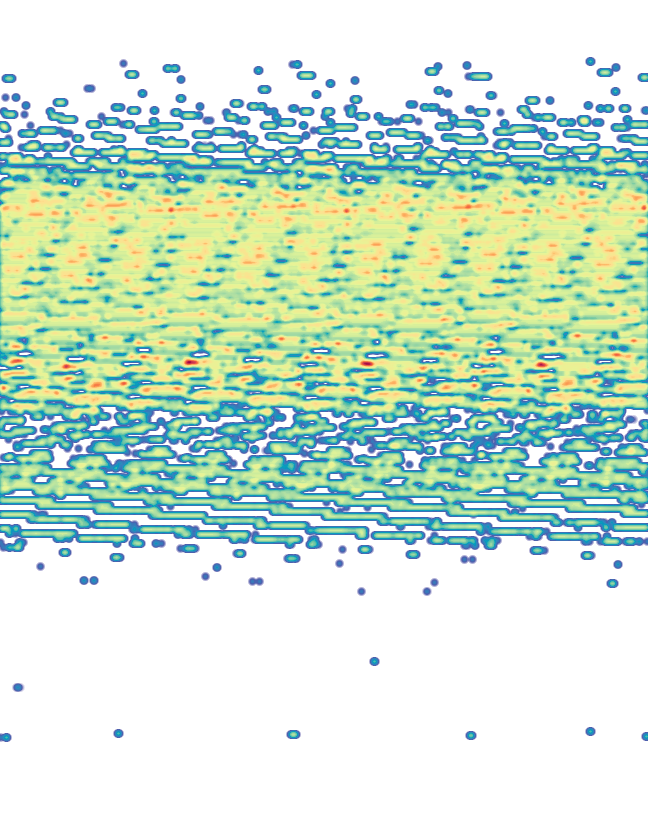
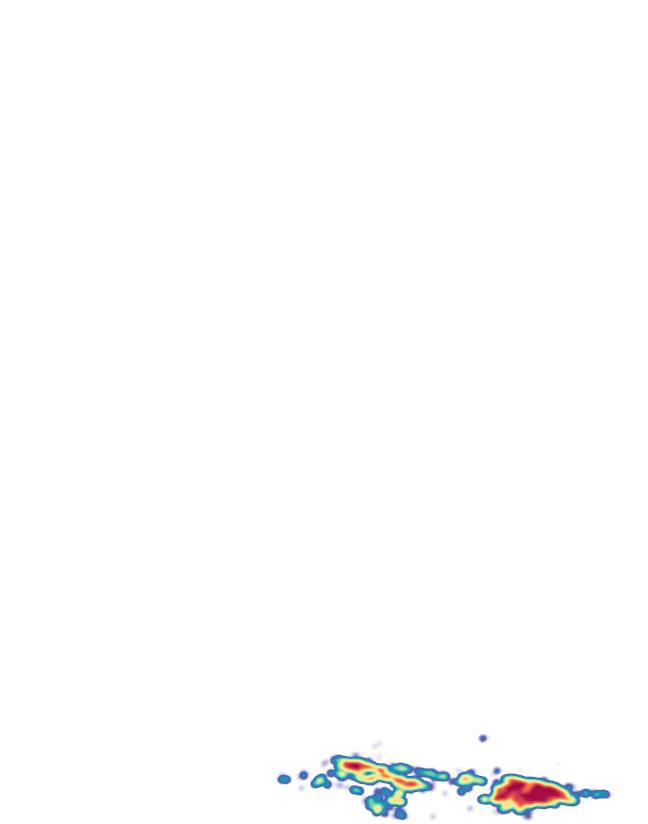
New picture as result and converting on a simple manner

diff --git a/data.cpp b/data.cpp
@@ -10,6 +10,7 @@
 #include <fstream>
 #include <vector>
 #include <iostream>
+#include <algorithm>
 #include <cmath>
 #include "3rd_party/heatmap.h"
 #include "3rd_party/lodepng.h"
@@ -71,8 +72,8 @@ float Data::productLA(int row, int col){
  */
 Spherical Data::pixelToGeographical(int row, int col){
     Spherical conversion{};
-    conversion.latitude = productLA(row,col) + v1;
-    conversion.longitude = productPh(row,col) + v0;
+    conversion.latitude = productPh(row,col)*180/M_PI;
+    conversion.longitude = productLA(row,col)*180/M_PI;
     return conversion;
 }
 
@@ -85,10 +86,10 @@ Spherical Data::pixelToGeographical(int row, int col){
 void Data::createCsv(const std::vector<Spherical>& sph, const std::vector<short int>& value){
     std::ofstream myfile;
     myfile.open (csv_filename);
-    myfile << "lat;lon;value\n";
+    myfile << "id;lat;lon;value\n";
     for (int i=0;i<sph.size();i++)
     {
-        myfile << sph[i].latitude << ";" << sph[i].longitude << ";" << value[i] << "\n";
+        myfile << std::to_string(i) << ";" << sph[i].latitude << ";" << sph[i].longitude << ";" << value[i] << "\n";
     }
     myfile.close();
 }
@@ -129,8 +130,21 @@ void Data::maxColumn(const std::vector<Spherical> &sph){
         }
         max_picture.push_back(max_col_i);
     }
-    plotImage(Nx, Ny, max_picture);
+    plotImage(Nx, Ny, max_picture,sph);
     createCsv(sph, max_picture);
+}
+
+/**
+ * Obtain the maximum/minimum latitude and longitude from the data
+ */
+void Data::obtainLimitsMap(const std::vector<Spherical> &sph){
+    auto check = [this](const Spherical& sphere) { 
+        if (sphere.latitude > max_lat) {max_lat = sphere.latitude;}
+        else if (sphere.latitude < min_lat) {min_lat = sphere.latitude;}
+        if (sphere.longitude > max_lon) {max_lon = sphere.longitude;}
+        else if (sphere.longitude < min_lon) {min_lon = sphere.longitude;}
+    };
+    std::for_each(sph.cbegin(), sph.cend(), check);
 }
 
 /**
@@ -140,11 +154,17 @@ void Data::maxColumn(const std::vector<Spherical> &sph){
  * @param image Array with the data to be converted to PNG.
  * @param counter To be included in the filename to distinguish between pictures.
  */
-void Data::plotImage(int Nx, int Ny, const std::vector<short int>& image, int counter){
+void Data::plotImage(int Nx, int Ny, const std::vector<short int>& image, const std::vector<Spherical> &sph, int counter){
     heatmap_t* hm = heatmap_new(Nx, Ny);
+    short int value;
+    int aprox_row;
+    int aprox_column;
+    obtainLimitsMap(sph);
     for(int i = 0 ; i < image.size() ; ++i) {
-        short int val = image[i];
-        heatmap_add_weighted_point(hm, i%Nx, i/Nx, val);
+        value = image[i];
+        aprox_row = (int)round(Ny*static_cast<double>(sph[i].latitude-min_lat)/(max_lat-min_lat));
+        aprox_column = (int)round(Nx*static_cast<double>(sph[i].longitude-min_lat)/(max_lon-min_lon));
+        heatmap_add_weighted_point(hm, aprox_column, aprox_row, value); // TODO: Should plot based on (lat,row) not (row,column)
     }
     unsigned char im[Nx*Ny*4];
     heatmap_render_default_to(hm, &im[0]); // Render map into picture
@@ -209,7 +229,7 @@ void Data::readFile(){
             aux.push_back(quant_levels[fileData[j]]);
         }
         Pixels.push_back(aux);
-        plotImage(Nx, Ny, aux, i);
+        //plotImage(Nx, Ny, aux, i);
     }
 }
 

diff --git a/data.hpp b/data.hpp
@@ -25,13 +25,14 @@ class Data{
 private:
     short int id; // 1 byte
     char date[17];
-    short int Ny;
-    short int Nx;
+    short int Ny; // # rows
+    short int Nx; // # columns
     short int L;
     short int distance;
     short int N;
     std::map<short int, short int> quant_levels;
     std::vector<std::vector<short int>> Pixels;
+    float max_lat, min_lat, max_lon, min_lon;
     
     const char* input_filename;
     const char* csv_filename;
@@ -46,7 +47,8 @@ public:
     Data(const char* in_filename, const char* out_csv="output.csv");
     std::vector<Spherical> convertCoordinates();
     Spherical pixelToGeographical(int row, int col);
-    void plotImage(int Nx, int Ny, const std::vector<short int>& image, int counter=0);
+    void plotImage(int Nx, int Ny, const std::vector<short int>& image, const std::vector<Spherical> &sph, int counter=0);
+    void obtainLimitsMap(const std::vector<Spherical> &sph);
     static float productPh(int row, int col);
     static float productLA(int row, int col);
     void maxColumn(const std::vector<Spherical> &sph);
